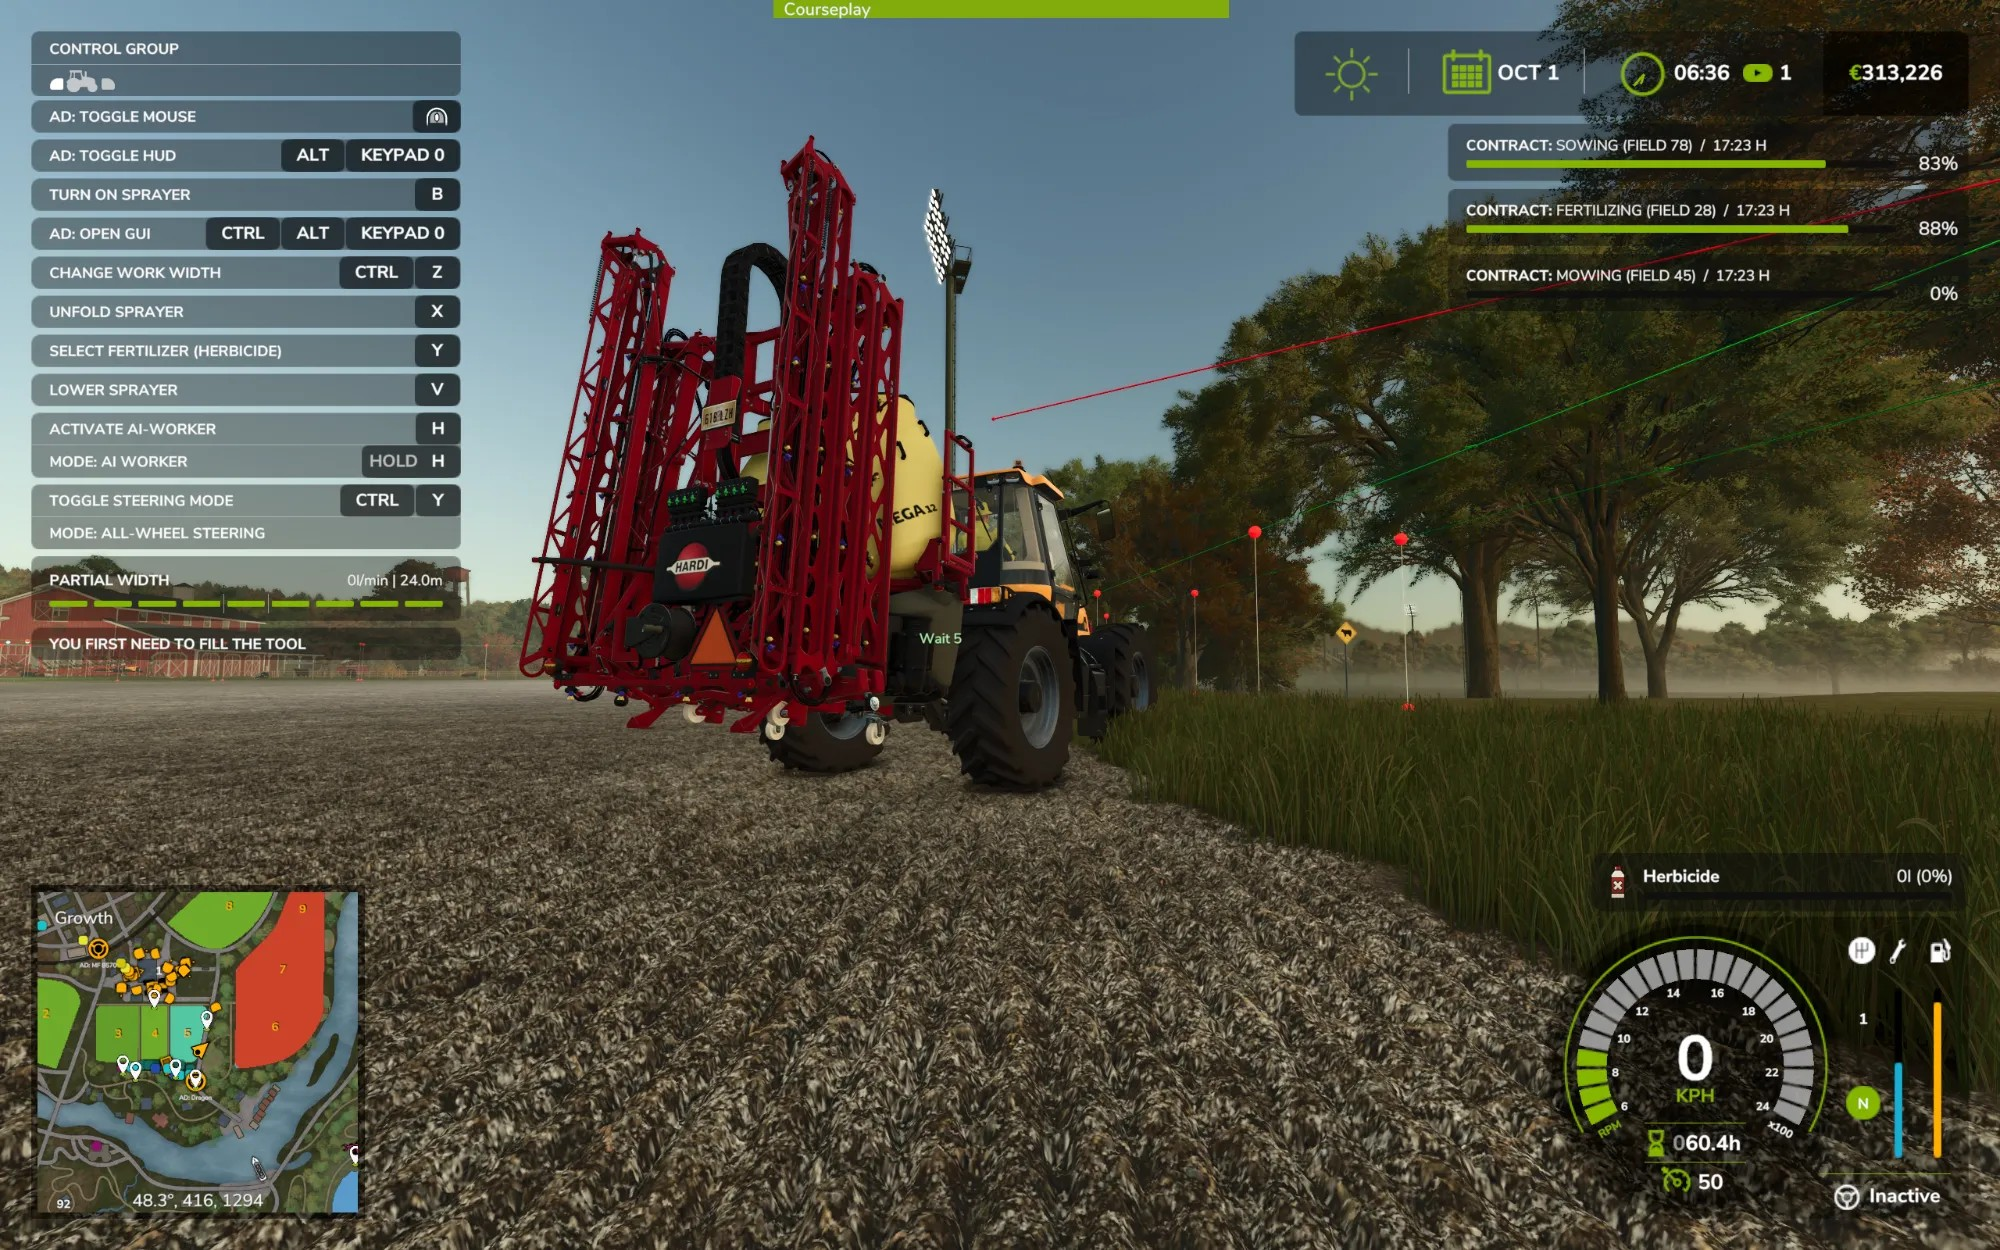
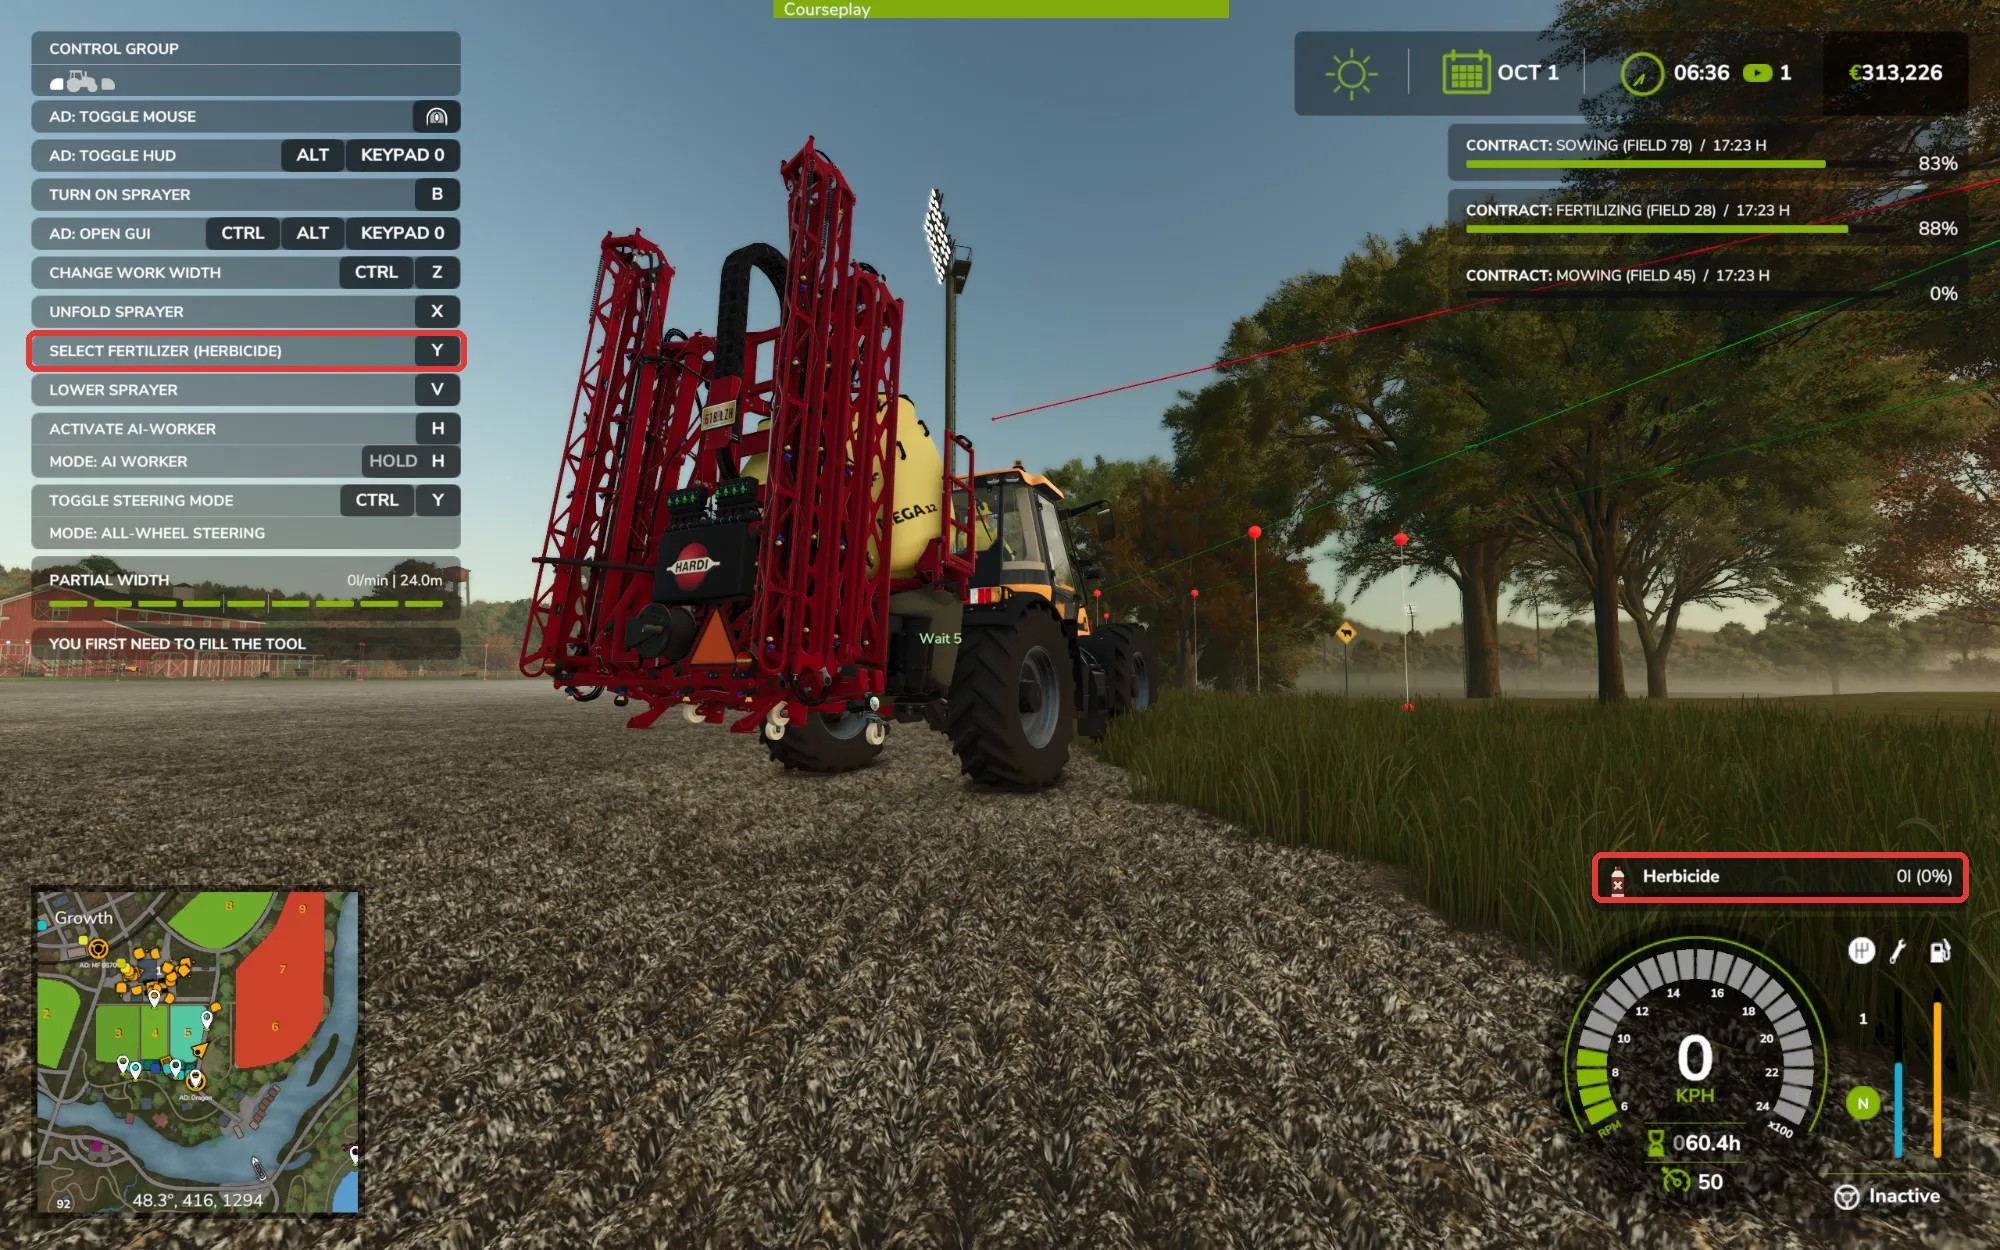
docs: highlight key spots on README screenshots, add Production Overflow screenshots
Mark the important buttons and rows with red boxes, add the store-rest and
sell-rest screenshots for Production Overflow, and drop the placeholders
for screenshots that won't be taken.

Changed region(s): [[0.0, 0.2496, 0.248, 0.312], [0.806, 0.6552, 0.992, 0.7488], [0.775, 0.6864, 0.806, 0.7176]]

diff --git a/fill-type-selector-mod/README.md b/fill-type-selector-mod/README.md
@@ -30,17 +30,11 @@ In the base game, an AI worker with an empty spreader or sprayer picks fertilize
 
 3. If the implement or the combination already uses Y, the key is **Alt+Y** and switches forward only. This is the case with a seeder that has several seeds, with Precision Farming, and with a tool carrier or hose reel from the Pumps N' Hoses Pack. To change the key, open Settings → Controls and look for **Select fertilizer (when Y is in use)** under Fill Type Selector.
 
-   <!-- SCREENSHOT assets/screenshots/02-alt-y-with-precision-farming.jpg | With Precision Farming, Y keeps its Precision Farming function and the F1 help shows Select fertilizer on Alt+Y | 开启精准农业时，Y 保留精准农业的功能，F1 帮助中“选择肥料”显示为 Alt+Y -->
-
 Implements that can only take one type don't get the key. With two implements attached that both have a choice, the key works on the selected one.
 
 ### AI workers and automatic buying
 
 Turn on **AI Worker Refill - Fertilizer** in Settings → Game Settings. A worker with an empty implement then buys the type you chose, lime and herbicide included, at the game's usual refill price. It works only the parts of the field that need that type, for example it skips land that already has lime.
-
-<!-- SCREENSHOT assets/screenshots/03-game-settings-ai-worker-refill.jpg | Game Settings with AI Worker Refill - Fertilizer turned on, and the Manure and Slurry refill options below it | “游戏设置”中开启了“AI 帮手补充 - 肥料”，下方是粪肥和水肥的补充选项 -->
-
-<!-- SCREENSHOT assets/screenshots/04-ai-worker-spreading-lime.jpg | AI worker spreading lime on a field with an empty spreader set to Lime | AI 帮手用选择了石灰的空散布机在田里撒石灰 -->
 
 - With the setting off, the worker stops when the tank is empty, as in the base game.
 - Lime-only spreaders don't need the key: the worker buys lime for them.
@@ -94,17 +88,11 @@ PolyForm Noncommercial License 1.0.0, see [LICENSE](LICENSE). Free for non-comme
 
 3. 如果机具或组合已经占用了 Y，按键改为 **Alt+Y**，只能向前切换。可选多种种子的播种机、精准农业，以及 Pumps N' Hoses Pack 的工具架和脐带软管卷筒都属于这种情况。要修改按键，打开“设置 → 控制”，在“肥料选择”下找到“选择肥料（Y 已被占用时）”。
 
-   <!-- SCREENSHOT assets/screenshots/02-alt-y-with-precision-farming.jpg | With Precision Farming, Y keeps its Precision Farming function and the F1 help shows Select fertilizer on Alt+Y | 开启精准农业时，Y 保留精准农业的功能，F1 帮助中“选择肥料”显示为 Alt+Y -->
-
 只能装一种类型的机具不会出现此按键。同时挂着两台都能选择的机具时，按键作用于当前选中的那台。
 
 ### AI 帮手与自动购买
 
 在“设置 → 游戏设置”中开启“AI 帮手补充 - 肥料”。料箱为空时，帮手会按游戏通常的补充价格购买你选择的类型，包括石灰和除草剂，并且只处理田里需要这种类型的区域，例如跳过已经撒过石灰的地块。
-
-<!-- SCREENSHOT assets/screenshots/03-game-settings-ai-worker-refill.jpg | Game Settings with AI Worker Refill - Fertilizer turned on, and the Manure and Slurry refill options below it | “游戏设置”中开启了“AI 帮手补充 - 肥料”，下方是粪肥和水肥的补充选项 -->
-
-<!-- SCREENSHOT assets/screenshots/04-ai-worker-spreading-lime.jpg | AI worker spreading lime on a field with an empty spreader set to Lime | AI 帮手用选择了石灰的空散布机在田里撒石灰 -->
 
 - 关闭该设置时，与原版相同，料箱空了帮手就会停下。
 - 只能装石灰的散布机不需要按键，帮手会直接买石灰。

diff --git a/production-overflow-mod/README.md b/production-overflow-mod/README.md
@@ -27,7 +27,7 @@ A factory set to Distributing delivers its products to your other production poi
 2. Select your production point, then the production whose output you want to change.
 3. Press **Change output mode** until the mode you want is shown, as in the base game. After Distributing come the two new modes, then Storing again. The product list shows the chosen mode by name.
 
-   <!-- SCREENSHOT assets/screenshots/01-production-chains-store-rest-mode.jpg | Production Chains page with a bakery selected, Change output mode in the bottom bar and the product set to Distributing, store rest automatically | “生产链”页面选中面包房，底栏显示“更改输出模式”，产品设为“分配，剩余自动储存” -->
+   ![Production Chains page: Strawberries in a greenhouse set to Distributing, store rest automatically, with Change output mode in the bottom bar](assets/screenshots/01-production-chains-store-rest-mode.jpg)
 
 | Mode | What happens |
 | --- | --- |
@@ -39,9 +39,7 @@ A factory set to Distributing delivers its products to your other production poi
 
 If none of your production points accepts the product, the whole stock becomes pallets or is sold.
 
-<!-- SCREENSHOT assets/screenshots/02-store-rest-pallets-at-factory.jpg | Full pallets of bread at the bakery's pallet area after the hourly delivery | 整点分配后，面包房托盘区出现的满托盘面包 -->
-
-<!-- SCREENSHOT assets/screenshots/03-production-chains-sell-rest-liquid.jpg | Production Chains page with a product that is not made on pallets set to Distributing, sell rest automatically | “生产链”页面中，一种不以托盘产出的产品设为“分配，剩余自动出售” -->
+![Production Chains page: butter in a dairy set to Distributing, sell rest automatically, next to products on Storing and Selling](assets/screenshots/03-production-chains-sell-rest.jpg)
 
 ### Good to know
 
@@ -90,7 +88,7 @@ PolyForm Noncommercial License 1.0.0, see [LICENSE](LICENSE). Free for non-comme
 2. 选择你的生产点，再选择要修改产出的那项生产。
 3. 与原版一样，按“更改输出模式”，直到显示想要的模式。“分配”之后依次是两个新模式，然后回到“储存”。产品列表会显示所选模式的名称。
 
-   <!-- SCREENSHOT assets/screenshots/01-production-chains-store-rest-mode.jpg | Production Chains page with a bakery selected, Change output mode in the bottom bar and the product set to Distributing, store rest automatically | “生产链”页面选中面包房，底栏显示“更改输出模式”，产品设为“分配，剩余自动储存” -->
+   ![“生产链”页面：草莓设为“分配，剩余自动储存”，底栏显示“更改输出模式”](assets/screenshots/01-production-chains-store-rest-mode.jpg)
 
 | 模式 | 效果 |
 | --- | --- |
@@ -102,9 +100,7 @@ PolyForm Noncommercial License 1.0.0, see [LICENSE](LICENSE). Free for non-comme
 
 本农场没有生产点接收该产品时，全部库存都会生成托盘或卖出。
 
-<!-- SCREENSHOT assets/screenshots/02-store-rest-pallets-at-factory.jpg | Full pallets of bread at the bakery's pallet area after the hourly delivery | 整点分配后，面包房托盘区出现的满托盘面包 -->
-
-<!-- SCREENSHOT assets/screenshots/03-production-chains-sell-rest-liquid.jpg | Production Chains page with a product that is not made on pallets set to Distributing, sell rest automatically | “生产链”页面中，一种不以托盘产出的产品设为“分配，剩余自动出售” -->
+![“生产链”页面：黄油设为“分配，剩余自动出售”，其他产品为储存或出售](assets/screenshots/03-production-chains-sell-rest.jpg)
 
 ### 注意事项
 

diff --git a/map-helper-mod/README.md b/map-helper-mod/README.md
@@ -35,8 +35,6 @@ Plan your workers' jobs straight from the map. Map Helper adds a page to the lef
 4. Check the job. These are the game's own job settings, the same as in **Create job**: job type, target and direction (picked on the map), stations, fill type and looping. Then click **Add to queue** (Z) to add it at the end, or **Insert as next** (X) to run it next. If no worker is driving the vehicle, the job starts right away. If something is missing, the game's own warning tells you what.
 5. Add more jobs the same way. They wait in the **Command queue** and start one after another.
 
-   <!-- SCREENSHOT assets/screenshots/03-command-queue-with-waiting-jobs.jpg | Command queue with the current job, its distance to the target and three numbered waiting jobs | 指令队列：当前作业及离目标的距离，下面是三个编号的等待作业 -->
-
 Tip: double-click a field or contract to add Fieldwork there in one step.
 
 ### Places
@@ -128,8 +126,6 @@ PolyForm Noncommercial License 1.0.0, see [LICENSE](LICENSE). Free for non-comme
 
 4. 检查作业。这里就是游戏自带的作业设置，与 **创建作业** 中相同：作业类型、目标位置和方向（在地图上选择）、站点、装填类型和循环。然后点击 **加入队列**（Z）排到最后，或点击 **插入为下一个**（X）让它下一个执行。没有帮手驾驶这台载具时，作业会立即开始。缺少什么设置，游戏自带的提示会告诉你。
 5. 用同样的方法继续添加。作业在 **指令队列** 中等待，依次自动开始。
-
-   <!-- SCREENSHOT assets/screenshots/03-command-queue-with-waiting-jobs.jpg | Command queue with the current job, its distance to the target and three numbered waiting jobs | 指令队列：当前作业及离目标的距离，下面是三个编号的等待作业 -->
 
 小技巧：双击田地或合同，可以一步把该处的田地工作加入队列。
 
